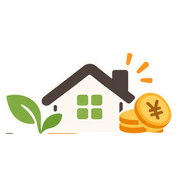
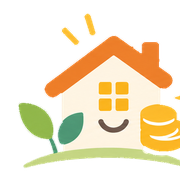
ロゴを横長の新版に差し替え、フッターのサイト名をロゴに（2026-10-06 時点の配信物）

diff --git a/site/theme.css b/site/theme.css
@@ -157,9 +157,8 @@ img { max-width: 100%; height: auto; }
 .brand:hover { color: var(--ink); }
 .brand__mark { flex: 0 0 30px; width: 30px; height: 30px; }
 /* ロゴ画像（assets/img/logo.webp）。題字の代わりに置き、タグラインだけ文字で添える。高さで指定し幅は比率どおり（1000×663） */
-.brand__logo { display: block; flex: 0 0 auto; width: auto; height: 46px; }
-.brand--logo { gap: 12px; padding: 2px 0; }
-.brand--logo .brand__sub { margin-top: 0; max-width: 46vw; white-space: normal; line-height: 1.5; }
+.brand__logo { display: block; flex: 0 0 auto; width: auto; height: 52px; }   /* 横長ロゴ（1400×426）。タグラインはロゴの中にあるので文字では添えない */
+.brand--logo { padding: 4px 0; }
 .brand__text { display: flex; flex-direction: column; align-items: flex-start; min-width: 0; }
 /* 題字の字間は名前の長さで調整（短い名前は広く、長い名前は詰める。--chars は文字数） */
 .brand__name { font-family: var(--font-ja); font-size: 17px; font-weight: 700; letter-spacing: clamp(.06em, calc(.28em - var(--chars, 8) * .02em), .22em); white-space: nowrap; }
@@ -170,9 +169,7 @@ img { max-width: 100%; height: auto; }
   .brand__mark { flex-basis: 40px; width: 40px; height: 40px; }
   .brand__name { font-size: 26px; letter-spacing: clamp(.08em, calc(.3em - var(--chars, 8) * .02em), .24em); }
   .brand__sub { margin-top: 5px; font-size: 11.5px; letter-spacing: .18em; max-width: none; }
-  .brand__logo { height: 72px; }
-  .brand--logo { gap: 18px; }
-  .brand--logo .brand__sub { margin-top: 0; max-width: none; white-space: nowrap; }
+  .brand__logo { height: 76px; }
   .site-nav { grid-column: 3; justify-self: end; display: flex; flex: none; flex-direction: column; align-items: flex-end; gap: 2px; font-size: 12.5px; line-height: 1.7; }
   .site-nav a { color: var(--ink-2); text-decoration: none; letter-spacing: .1em; font-weight: 500; white-space: nowrap; }
   .site-nav a:hover { color: var(--accent-deep); }
@@ -230,7 +227,7 @@ img { max-width: 100%; height: auto; }
   }
   .site-header.is-stuck .bar-brand { opacity: 1; visibility: visible; transition: opacity .3s; }
   .bar-brand .brand__mark { flex-basis: 28px; width: 28px; height: 28px; }
-  .bar-brand__logo { display: block; width: auto; height: 38px; }
+  .bar-brand__logo { display: block; width: auto; height: 40px; }
   .bar-brand__name { display: none; max-width: 128px;   /* 本文の左端から目次帯の先頭までに収まる幅（1280px 以上で一定） */ overflow: hidden; text-overflow: ellipsis; font-size: 14px; font-weight: 700; letter-spacing: .1em; white-space: nowrap; }
 }
 @media (min-width: 1280px) { .bar-brand__name { display: inline; } }
@@ -973,10 +970,6 @@ table.cmp td:first-child { font-weight: 700; color: var(--ink); }
 .site-footer { margin-top: 0; background: var(--ink); color: rgba(247, 243, 236, .8); }
 .site-footer__inner { max-width: var(--wide); margin: 0 auto; padding: 52px var(--pad) 24px; container-type: inline-size; }
 .site-footer__head { text-align: center; padding-bottom: 32px; border-bottom: 1px solid rgba(247, 243, 236, .16); }
-/* フッターのロゴ（墨の地でも、ロゴの紙色の縁取りで読める） */
-.site-footer__logo { display: inline-block; margin-bottom: 20px; line-height: 0; }
-.site-footer__logo-img { width: auto; height: 72px; }
-@media (min-width: 720px) { .site-footer__logo { margin-bottom: 28px; } .site-footer__logo-img { height: 96px; } }
 .site-footer__kicker { margin: 0; font-family: var(--font-serif); font-style: italic; font-weight: 300; font-size: 30px; line-height: 1.2; color: var(--paper); letter-spacing: -.005em; font-variation-settings: "opsz" 144, "WONK" 0; }
 .site-footer__tagline { margin-top: 14px; font-size: 12px; letter-spacing: .16em; color: rgba(247, 243, 236, .74); }
 .site-footer__cols { display: grid; gap: 28px; padding: 32px 0 28px; }
@@ -987,12 +980,18 @@ table.cmp td:first-child { font-weight: 700; color: var(--ink); }
 @media (max-width: 379.98px) { .site-footer__nav a { letter-spacing: .03em; } }
 .site-footer__nav a:hover { color: var(--accent-light); text-decoration: underline; }
 .site-footer__note { word-break: auto-phrase; text-wrap: pretty; margin: 0; padding-top: 22px; border-top: 1px solid rgba(247, 243, 236, .16); font-size: 12.5px; line-height: 1.85; color: rgba(247, 243, 236, .74); }
+/* フッターの最後にロゴ（2026-10-06 人間指示: 大きな文字のワードマークはやめてロゴを置く）。
+   墨の地では茶色の小さな文字が沈むので、紙色の台紙に載せる */
+.site-footer__logo { display: block; width: fit-content; max-width: 100%; margin: 36px auto 0; padding: 16px 22px; border-radius: 10px; background: var(--paper); line-height: 0; }
+.site-footer__logo-img { display: block; width: auto; max-width: 100%; height: 72px; }
+@media (min-width: 720px) { .site-footer__logo { margin-top: 56px; padding: 22px 36px; } .site-footer__logo-img { height: 104px; } }
+@media (hover: hover) { .site-footer__logo { transition: transform .4s var(--ease-out); } .site-footer__logo:hover { transform: translateY(-3px); } }
+/* ロゴが無いときの代替（大きな細字のサイト名） */
 .site-footer__wordmark {
   margin: 36px 0 0; padding-bottom: .04em; overflow: hidden; white-space: nowrap; text-align: center;
   font-family: var(--font-ja); font-weight: 400; font-size: clamp(36px, 9vw, 140px); line-height: 1.1; letter-spacing: 0; font-feature-settings: normal;
-  color: rgba(247, 243, 236, .17);   /* 装飾（aria-hidden）。墨の地に沈めて「Thank you for reading.」を主役にする */
+  color: rgba(247, 243, 236, .17);
 }
-/* 幅に合わせる。短い名前（4 文字など）で大きくなりすぎないよう 140px で止める */
 @supports (width: 1cqi) { .site-footer__wordmark { font-size: min(calc(100cqi / var(--chars, 8) * .97), 140px); } }
 .site-footer__copyright { margin-top: 14px; padding-top: 14px; border-top: 1px solid rgba(247, 243, 236, .16); font-size: 12px; text-align: left; letter-spacing: .05em; color: rgba(247, 243, 236, .66); }
 .site-footer__copyright span { white-space: nowrap; }   /* 「All rights reserved.」を割らない */

diff --git a/404.html b/404.html
@@ -27,7 +27,7 @@
 <header class="site-header">
   <div class="site-header__inner">
     <p class="site-header__journal" aria-hidden="true">A journal for family living</p>
-    <a class="brand brand--logo" href="/kakei-blog/" style="--chars:4"><img class="brand__logo" src="/kakei-blog/assets/img/logo.webp" width="1000" height="663" alt="クラコツ" decoding="async"><span class="brand__sub">コツコツ得する暮らしのコツ</span></a>
+    <a class="brand brand--logo" href="/kakei-blog/" style="--chars:4"><img class="brand__logo" src="/kakei-blog/assets/img/logo.webp" width="1000" height="663" alt="クラコツ" decoding="async"></a>
     <nav class="site-nav" aria-label="サイトについて">
       <a href="/kakei-blog/about/">運営者情報</a>
       <a href="/kakei-blog/ad-policy/">広告掲載について</a>
@@ -63,7 +63,6 @@
 <footer class="site-footer">
   <div class="site-footer__inner">
     <div class="site-footer__head">
-      <a class="site-footer__logo" href="/kakei-blog/"><img class="site-footer__logo-img" src="/kakei-blog/assets/img/logo.webp" width="1000" height="663" alt="クラコツ" decoding="async"></a>
       <p class="site-footer__kicker" aria-hidden="true">Thank you for reading.</p>
       <p class="site-footer__tagline">コツコツ得する暮らしのコツ</p>
     </div>
@@ -88,7 +87,7 @@
       </nav>
     </div>
     <p class="site-footer__note">当サイトはアフィリエイトプログラム（楽天アフィリエイト、Amazon アソシエイト）を利用しています。</p>
-    <p class="site-footer__wordmark" style="--chars:4" aria-hidden="true">クラコツ</p>
+    <a class="site-footer__logo" href="/kakei-blog/"><img class="site-footer__logo-img" src="/kakei-blog/assets/img/logo.webp" width="1000" height="663" alt="クラコツ" decoding="async"></a>
     <p class="site-footer__copyright">Copyright(C) 2026 コツコツ得する暮らしのコツ　クラコツ <span>All rights reserved.</span></p>
   </div>
 </footer>

diff --git a/furusato/hajimete-erabikata/index.html b/furusato/hajimete-erabikata/index.html
@@ -28,7 +28,7 @@
 <header class="site-header">
   <div class="site-header__inner">
     <p class="site-header__journal" aria-hidden="true">A journal for family living</p>
-    <a class="brand brand--logo" href="../../" style="--chars:4"><img class="brand__logo" src="../../assets/img/logo.webp" width="1000" height="663" alt="クラコツ" decoding="async"><span class="brand__sub">コツコツ得する暮らしのコツ</span></a>
+    <a class="brand brand--logo" href="../../" style="--chars:4"><img class="brand__logo" src="../../assets/img/logo.webp" width="1000" height="663" alt="クラコツ" decoding="async"></a>
     <nav class="site-nav" aria-label="サイトについて">
       <a href="../../about/">運営者情報</a>
       <a href="../../ad-policy/">広告掲載について</a>
@@ -149,7 +149,6 @@
 <footer class="site-footer">
   <div class="site-footer__inner">
     <div class="site-footer__head">
-      <a class="site-footer__logo" href="../../"><img class="site-footer__logo-img" src="../../assets/img/logo.webp" width="1000" height="663" alt="クラコツ" decoding="async"></a>
       <p class="site-footer__kicker" aria-hidden="true">Thank you for reading.</p>
       <p class="site-footer__tagline">コツコツ得する暮らしのコツ</p>
     </div>
@@ -174,7 +173,7 @@
       </nav>
     </div>
     <p class="site-footer__note">当サイトはアフィリエイトプログラム（楽天アフィリエイト、Amazon アソシエイト）を利用しています。</p>
-    <p class="site-footer__wordmark" style="--chars:4" aria-hidden="true">クラコツ</p>
+    <a class="site-footer__logo" href="../../"><img class="site-footer__logo-img" src="../../assets/img/logo.webp" width="1000" height="663" alt="クラコツ" decoding="async"></a>
     <p class="site-footer__copyright">Copyright(C) 2026 コツコツ得する暮らしのコツ　クラコツ <span>All rights reserved.</span></p>
   </div>
 </footer>

diff --git a/about/index.html b/about/index.html
@@ -27,7 +27,7 @@
 <header class="site-header">
   <div class="site-header__inner">
     <p class="site-header__journal" aria-hidden="true">A journal for family living</p>
-    <a class="brand brand--logo" href="../" style="--chars:4"><img class="brand__logo" src="../assets/img/logo.webp" width="1000" height="663" alt="クラコツ" decoding="async"><span class="brand__sub">コツコツ得する暮らしのコツ</span></a>
+    <a class="brand brand--logo" href="../" style="--chars:4"><img class="brand__logo" src="../assets/img/logo.webp" width="1000" height="663" alt="クラコツ" decoding="async"></a>
     <nav class="site-nav" aria-label="サイトについて">
       <a href="../about/">運営者情報</a>
       <a href="../ad-policy/">広告掲載について</a>
@@ -66,7 +66,6 @@
 <footer class="site-footer">
   <div class="site-footer__inner">
     <div class="site-footer__head">
-      <a class="site-footer__logo" href="../"><img class="site-footer__logo-img" src="../assets/img/logo.webp" width="1000" height="663" alt="クラコツ" decoding="async"></a>
       <p class="site-footer__kicker" aria-hidden="true">Thank you for reading.</p>
       <p class="site-footer__tagline">コツコツ得する暮らしのコツ</p>
     </div>
@@ -91,7 +90,7 @@
       </nav>
     </div>
     <p class="site-footer__note">当サイトはアフィリエイトプログラム（楽天アフィリエイト、Amazon アソシエイト）を利用しています。</p>
-    <p class="site-footer__wordmark" style="--chars:4" aria-hidden="true">クラコツ</p>
+    <a class="site-footer__logo" href="../"><img class="site-footer__logo-img" src="../assets/img/logo.webp" width="1000" height="663" alt="クラコツ" decoding="async"></a>
     <p class="site-footer__copyright">Copyright(C) 2026 コツコツ得する暮らしのコツ　クラコツ <span>All rights reserved.</span></p>
   </div>
 </footer>

diff --git a/ad-policy/index.html b/ad-policy/index.html
@@ -27,7 +27,7 @@
 <header class="site-header">
   <div class="site-header__inner">
     <p class="site-header__journal" aria-hidden="true">A journal for family living</p>
-    <a class="brand brand--logo" href="../" style="--chars:4"><img class="brand__logo" src="../assets/img/logo.webp" width="1000" height="663" alt="クラコツ" decoding="async"><span class="brand__sub">コツコツ得する暮らしのコツ</span></a>
+    <a class="brand brand--logo" href="../" style="--chars:4"><img class="brand__logo" src="../assets/img/logo.webp" width="1000" height="663" alt="クラコツ" decoding="async"></a>
     <nav class="site-nav" aria-label="サイトについて">
       <a href="../about/">運営者情報</a>
       <a href="../ad-policy/">広告掲載について</a>
@@ -66,7 +66,6 @@
 <footer class="site-footer">
   <div class="site-footer__inner">
     <div class="site-footer__head">
-      <a class="site-footer__logo" href="../"><img class="site-footer__logo-img" src="../assets/img/logo.webp" width="1000" height="663" alt="クラコツ" decoding="async"></a>
       <p class="site-footer__kicker" aria-hidden="true">Thank you for reading.</p>
       <p class="site-footer__tagline">コツコツ得する暮らしのコツ</p>
     </div>
@@ -91,7 +90,7 @@
       </nav>
     </div>
     <p class="site-footer__note">当サイトはアフィリエイトプログラム（楽天アフィリエイト、Amazon アソシエイト）を利用しています。</p>
-    <p class="site-footer__wordmark" style="--chars:4" aria-hidden="true">クラコツ</p>
+    <a class="site-footer__logo" href="../"><img class="site-footer__logo-img" src="../assets/img/logo.webp" width="1000" height="663" alt="クラコツ" decoding="async"></a>
     <p class="site-footer__copyright">Copyright(C) 2026 コツコツ得する暮らしのコツ　クラコツ <span>All rights reserved.</span></p>
   </div>
 </footer>

diff --git a/furusato/index.html b/furusato/index.html
@@ -27,7 +27,7 @@
 <header class="site-header">
   <div class="site-header__inner">
     <p class="site-header__journal" aria-hidden="true">A journal for family living</p>
-    <a class="brand brand--logo" href="../" style="--chars:4"><img class="brand__logo" src="../assets/img/logo.webp" width="1000" height="663" alt="クラコツ" decoding="async"><span class="brand__sub">コツコツ得する暮らしのコツ</span></a>
+    <a class="brand brand--logo" href="../" style="--chars:4"><img class="brand__logo" src="../assets/img/logo.webp" width="1000" height="663" alt="クラコツ" decoding="async"></a>
     <nav class="site-nav" aria-label="サイトについて">
       <a href="../about/">運営者情報</a>
       <a href="../ad-policy/">広告掲載について</a>
@@ -63,7 +63,6 @@
 <footer class="site-footer">
   <div class="site-footer__inner">
     <div class="site-footer__head">
-      <a class="site-footer__logo" href="../"><img class="site-footer__logo-img" src="../assets/img/logo.webp" width="1000" height="663" alt="クラコツ" decoding="async"></a>
       <p class="site-footer__kicker" aria-hidden="true">Thank you for reading.</p>
       <p class="site-footer__tagline">コツコツ得する暮らしのコツ</p>
     </div>
@@ -88,7 +87,7 @@
       </nav>
     </div>
     <p class="site-footer__note">当サイトはアフィリエイトプログラム（楽天アフィリエイト、Amazon アソシエイト）を利用しています。</p>
-    <p class="site-footer__wordmark" style="--chars:4" aria-hidden="true">クラコツ</p>
+    <a class="site-footer__logo" href="../"><img class="site-footer__logo-img" src="../assets/img/logo.webp" width="1000" height="663" alt="クラコツ" decoding="async"></a>
     <p class="site-footer__copyright">Copyright(C) 2026 コツコツ得する暮らしのコツ　クラコツ <span>All rights reserved.</span></p>
   </div>
 </footer>

diff --git a/kaden/index.html b/kaden/index.html
@@ -27,7 +27,7 @@
 <header class="site-header">
   <div class="site-header__inner">
     <p class="site-header__journal" aria-hidden="true">A journal for family living</p>
-    <a class="brand brand--logo" href="../" style="--chars:4"><img class="brand__logo" src="../assets/img/logo.webp" width="1000" height="663" alt="クラコツ" decoding="async"><span class="brand__sub">コツコツ得する暮らしのコツ</span></a>
+    <a class="brand brand--logo" href="../" style="--chars:4"><img class="brand__logo" src="../assets/img/logo.webp" width="1000" height="663" alt="クラコツ" decoding="async"></a>
     <nav class="site-nav" aria-label="サイトについて">
       <a href="../about/">運営者情報</a>
       <a href="../ad-policy/">広告掲載について</a>
@@ -62,7 +62,6 @@
 <footer class="site-footer">
   <div class="site-footer__inner">
     <div class="site-footer__head">
-      <a class="site-footer__logo" href="../"><img class="site-footer__logo-img" src="../assets/img/logo.webp" width="1000" height="663" alt="クラコツ" decoding="async"></a>
       <p class="site-footer__kicker" aria-hidden="true">Thank you for reading.</p>
       <p class="site-footer__tagline">コツコツ得する暮らしのコツ</p>
     </div>
@@ -87,7 +86,7 @@
       </nav>
     </div>
     <p class="site-footer__note">当サイトはアフィリエイトプログラム（楽天アフィリエイト、Amazon アソシエイト）を利用しています。</p>
-    <p class="site-footer__wordmark" style="--chars:4" aria-hidden="true">クラコツ</p>
+    <a class="site-footer__logo" href="../"><img class="site-footer__logo-img" src="../assets/img/logo.webp" width="1000" height="663" alt="クラコツ" decoding="async"></a>
     <p class="site-footer__copyright">Copyright(C) 2026 コツコツ得する暮らしのコツ　クラコツ <span>All rights reserved.</span></p>
   </div>
 </footer>

diff --git a/kagu/index.html b/kagu/index.html
@@ -27,7 +27,7 @@
 <header class="site-header">
   <div class="site-header__inner">
     <p class="site-header__journal" aria-hidden="true">A journal for family living</p>
-    <a class="brand brand--logo" href="../" style="--chars:4"><img class="brand__logo" src="../assets/img/logo.webp" width="1000" height="663" alt="クラコツ" decoding="async"><span class="brand__sub">コツコツ得する暮らしのコツ</span></a>
+    <a class="brand brand--logo" href="../" style="--chars:4"><img class="brand__logo" src="../assets/img/logo.webp" width="1000" height="663" alt="クラコツ" decoding="async"></a>
     <nav class="site-nav" aria-label="サイトについて">
       <a href="../about/">運営者情報</a>
       <a href="../ad-policy/">広告掲載について</a>
@@ -62,7 +62,6 @@
 <footer class="site-footer">
   <div class="site-footer__inner">
     <div class="site-footer__head">
-      <a class="site-footer__logo" href="../"><img class="site-footer__logo-img" src="../assets/img/logo.webp" width="1000" height="663" alt="クラコツ" decoding="async"></a>
       <p class="site-footer__kicker" aria-hidden="true">Thank you for reading.</p>
       <p class="site-footer__tagline">コツコツ得する暮らしのコツ</p>
     </div>
@@ -87,7 +86,7 @@
       </nav>
     </div>
     <p class="site-footer__note">当サイトはアフィリエイトプログラム（楽天アフィリエイト、Amazon アソシエイト）を利用しています。</p>
-    <p class="site-footer__wordmark" style="--chars:4" aria-hidden="true">クラコツ</p>
+    <a class="site-footer__logo" href="../"><img class="site-footer__logo-img" src="../assets/img/logo.webp" width="1000" height="663" alt="クラコツ" decoding="async"></a>
     <p class="site-footer__copyright">Copyright(C) 2026 コツコツ得する暮らしのコツ　クラコツ <span>All rights reserved.</span></p>
   </div>
 </footer>

diff --git a/kakei/index.html b/kakei/index.html
@@ -27,7 +27,7 @@
 <header class="site-header">
   <div class="site-header__inner">
     <p class="site-header__journal" aria-hidden="true">A journal for family living</p>
-    <a class="brand brand--logo" href="../" style="--chars:4"><img class="brand__logo" src="../assets/img/logo.webp" width="1000" height="663" alt="クラコツ" decoding="async"><span class="brand__sub">コツコツ得する暮らしのコツ</span></a>
+    <a class="brand brand--logo" href="../" style="--chars:4"><img class="brand__logo" src="../assets/img/logo.webp" width="1000" height="663" alt="クラコツ" decoding="async"></a>
     <nav class="site-nav" aria-label="サイトについて">
       <a href="../about/">運営者情報</a>
       <a href="../ad-policy/">広告掲載について</a>
@@ -62,7 +62,6 @@
 <footer class="site-footer">
   <div class="site-footer__inner">
     <div class="site-footer__head">
-      <a class="site-footer__logo" href="../"><img class="site-footer__logo-img" src="../assets/img/logo.webp" width="1000" height="663" alt="クラコツ" decoding="async"></a>
       <p class="site-footer__kicker" aria-hidden="true">Thank you for reading.</p>
       <p class="site-footer__tagline">コツコツ得する暮らしのコツ</p>
     </div>
@@ -87,7 +86,7 @@
       </nav>
     </div>
     <p class="site-footer__note">当サイトはアフィリエイトプログラム（楽天アフィリエイト、Amazon アソシエイト）を利用しています。</p>
-    <p class="site-footer__wordmark" style="--chars:4" aria-hidden="true">クラコツ</p>
+    <a class="site-footer__logo" href="../"><img class="site-footer__logo-img" src="../assets/img/logo.webp" width="1000" height="663" alt="クラコツ" decoding="async"></a>
     <p class="site-footer__copyright">Copyright(C) 2026 コツコツ得する暮らしのコツ　クラコツ <span>All rights reserved.</span></p>
   </div>
 </footer>

diff --git a/nichiyohin/index.html b/nichiyohin/index.html
@@ -27,7 +27,7 @@
 <header class="site-header">
   <div class="site-header__inner">
     <p class="site-header__journal" aria-hidden="true">A journal for family living</p>
-    <a class="brand brand--logo" href="../" style="--chars:4"><img class="brand__logo" src="../assets/img/logo.webp" width="1000" height="663" alt="クラコツ" decoding="async"><span class="brand__sub">コツコツ得する暮らしのコツ</span></a>
+    <a class="brand brand--logo" href="../" style="--chars:4"><img class="brand__logo" src="../assets/img/logo.webp" width="1000" height="663" alt="クラコツ" decoding="async"></a>
     <nav class="site-nav" aria-label="サイトについて">
       <a href="../about/">運営者情報</a>
       <a href="../ad-policy/">広告掲載について</a>
@@ -62,7 +62,6 @@
 <footer class="site-footer">
   <div class="site-footer__inner">
     <div class="site-footer__head">
-      <a class="site-footer__logo" href="../"><img class="site-footer__logo-img" src="../assets/img/logo.webp" width="1000" height="663" alt="クラコツ" decoding="async"></a>
       <p class="site-footer__kicker" aria-hidden="true">Thank you for reading.</p>
       <p class="site-footer__tagline">コツコツ得する暮らしのコツ</p>
     </div>
@@ -87,7 +86,7 @@
       </nav>
     </div>
     <p class="site-footer__note">当サイトはアフィリエイトプログラム（楽天アフィリエイト、Amazon アソシエイト）を利用しています。</p>
-    <p class="site-footer__wordmark" style="--chars:4" aria-hidden="true">クラコツ</p>
+    <a class="site-footer__logo" href="../"><img class="site-footer__logo-img" src="../assets/img/logo.webp" width="1000" height="663" alt="クラコツ" decoding="async"></a>
     <p class="site-footer__copyright">Copyright(C) 2026 コツコツ得する暮らしのコツ　クラコツ <span>All rights reserved.</span></p>
   </div>
 </footer>

diff --git a/privacy/index.html b/privacy/index.html
@@ -27,7 +27,7 @@
 <header class="site-header">
   <div class="site-header__inner">
     <p class="site-header__journal" aria-hidden="true">A journal for family living</p>
-    <a class="brand brand--logo" href="../" style="--chars:4"><img class="brand__logo" src="../assets/img/logo.webp" width="1000" height="663" alt="クラコツ" decoding="async"><span class="brand__sub">コツコツ得する暮らしのコツ</span></a>
+    <a class="brand brand--logo" href="../" style="--chars:4"><img class="brand__logo" src="../assets/img/logo.webp" width="1000" height="663" alt="クラコツ" decoding="async"></a>
     <nav class="site-nav" aria-label="サイトについて">
       <a href="../about/">運営者情報</a>
       <a href="../ad-policy/">広告掲載について</a>
@@ -59,7 +59,6 @@
 <footer class="site-footer">
   <div class="site-footer__inner">
     <div class="site-footer__head">
-      <a class="site-footer__logo" href="../"><img class="site-footer__logo-img" src="../assets/img/logo.webp" width="1000" height="663" alt="クラコツ" decoding="async"></a>
       <p class="site-footer__kicker" aria-hidden="true">Thank you for reading.</p>
       <p class="site-footer__tagline">コツコツ得する暮らしのコツ</p>
     </div>
@@ -84,7 +83,7 @@
       </nav>
     </div>
     <p class="site-footer__note">当サイトはアフィリエイトプログラム（楽天アフィリエイト、Amazon アソシエイト）を利用しています。</p>
-    <p class="site-footer__wordmark" style="--chars:4" aria-hidden="true">クラコツ</p>
+    <a class="site-footer__logo" href="../"><img class="site-footer__logo-img" src="../assets/img/logo.webp" width="1000" height="663" alt="クラコツ" decoding="async"></a>
     <p class="site-footer__copyright">Copyright(C) 2026 コツコツ得する暮らしのコツ　クラコツ <span>All rights reserved.</span></p>
   </div>
 </footer>

diff --git a/ryoko/index.html b/ryoko/index.html
@@ -27,7 +27,7 @@
 <header class="site-header">
   <div class="site-header__inner">
     <p class="site-header__journal" aria-hidden="true">A journal for family living</p>
-    <a class="brand brand--logo" href="../" style="--chars:4"><img class="brand__logo" src="../assets/img/logo.webp" width="1000" height="663" alt="クラコツ" decoding="async"><span class="brand__sub">コツコツ得する暮らしのコツ</span></a>
+    <a class="brand brand--logo" href="../" style="--chars:4"><img class="brand__logo" src="../assets/img/logo.webp" width="1000" height="663" alt="クラコツ" decoding="async"></a>
     <nav class="site-nav" aria-label="サイトについて">
       <a href="../about/">運営者情報</a>
       <a href="../ad-policy/">広告掲載について</a>
@@ -62,7 +62,6 @@
 <footer class="site-footer">
   <div class="site-footer__inner">
     <div class="site-footer__head">
-      <a class="site-footer__logo" href="../"><img class="site-footer__logo-img" src="../assets/img/logo.webp" width="1000" height="663" alt="クラコツ" decoding="async"></a>
       <p class="site-footer__kicker" aria-hidden="true">Thank you for reading.</p>
       <p class="site-footer__tagline">コツコツ得する暮らしのコツ</p>
     </div>
@@ -87,7 +86,7 @@
       </nav>
     </div>
     <p class="site-footer__note">当サイトはアフィリエイトプログラム（楽天アフィリエイト、Amazon アソシエイト）を利用しています。</p>
-    <p class="site-footer__wordmark" style="--chars:4" aria-hidden="true">クラコツ</p>
+    <a class="site-footer__logo" href="../"><img class="site-footer__logo-img" src="../assets/img/logo.webp" width="1000" height="663" alt="クラコツ" decoding="async"></a>
     <p class="site-footer__copyright">Copyright(C) 2026 コツコツ得する暮らしのコツ　クラコツ <span>All rights reserved.</span></p>
   </div>
 </footer>
